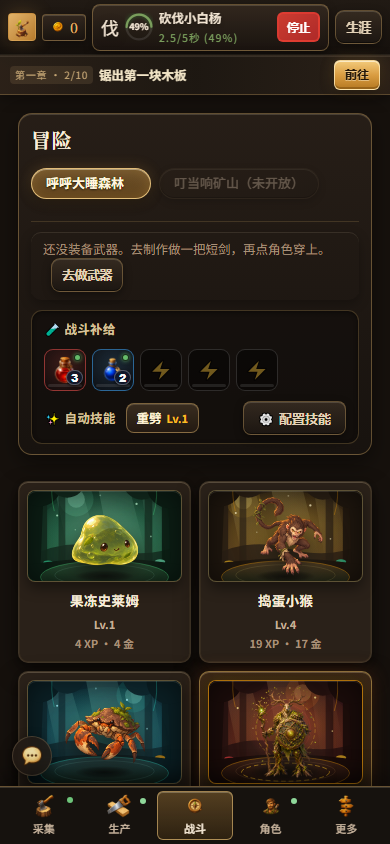
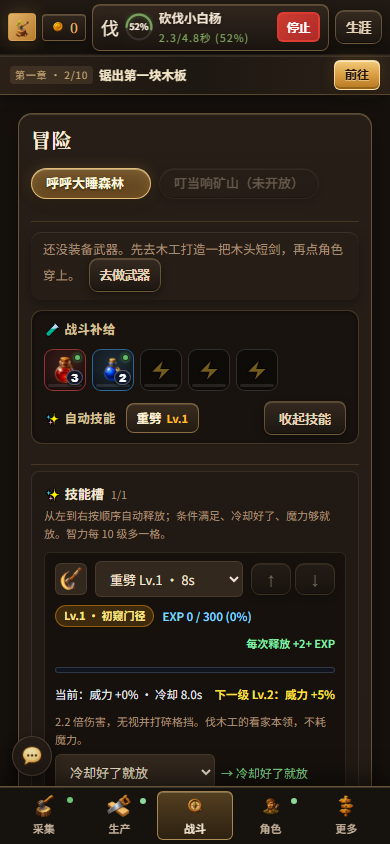
chore(worklife): 2h autonomous playtest pass, advance progression & package script fix

diff --git a/games/worklife/frontend/src/components/AdventurePanel.tsx b/games/worklife/frontend/src/components/AdventurePanel.tsx
@@ -125,7 +125,7 @@ export function AdventurePanel({
           {!playerState.equipment?.main_hand && (
             <div className="page-info adventure-hint-banner">
               <p>
-                还没装备武器。去制作做一把短剑，再点角色穿上。
+                还没装备武器。先去木工打造一把木头短剑，再点角色穿上。
                 <button
                   type="button"
                   className="header-menu-btn"

diff --git a/games/worklife/docs/art/T1_ASSET_STATUS.md b/games/worklife/docs/art/T1_ASSET_STATUS.md
@@ -74,6 +74,24 @@ P1 MISSING 0
 - `skills/group_heal` PRODUCTION (webp)
 - `skills/meteor_storm` PRODUCTION (webp)
 - `skills/war_aura` PRODUCTION (webp)
+- `skills/quick_shot` PLACEHOLDER (svg)
+- `skills/spore_ward` PLACEHOLDER (svg)
+- `skills/shield_bash` PLACEHOLDER (svg)
+- `skills/mana_pulse` PLACEHOLDER (svg)
+- `skills/venom_fang` PLACEHOLDER (svg)
+- `skills/soul_drain` PLACEHOLDER (svg)
+- `skills/frost_nova` PLACEHOLDER (svg)
+- `skills/glacial_snipe` PLACEHOLDER (svg)
+- `skills/flame_burst` PLACEHOLDER (svg)
+- `skills/phoenix_blessing` PLACEHOLDER (svg)
+- `skills/void_rift` PLACEHOLDER (svg)
+- `skills/abyssal_pact` PLACEHOLDER (svg)
+- `skills/holy_judgment` PLACEHOLDER (svg)
+- `skills/seraph_aegis` PLACEHOLDER (svg)
+- `skills/chrono_overload` PLACEHOLDER (svg)
+- `skills/hellfire_cataclysm` PLACEHOLDER (svg)
+- `skills/genesis_sanctuary` PLACEHOLDER (svg)
+- `skills/omega_annihilation` PLACEHOLDER (svg)
 - `materials/ore_1` PRODUCTION (webp)
 - `materials/ingot_1` PRODUCTION (webp)
 - `materials/fiber_1` PRODUCTION (webp)
@@ -450,6 +468,24 @@ P1 MISSING 0
 - `materials/book_group_heal` PRODUCTION (webp)
 - `materials/book_meteor_storm` PRODUCTION (webp)
 - `materials/book_war_aura` PRODUCTION (webp)
+- `materials/book_quick_shot` PLACEHOLDER (svg)
+- `materials/book_spore_ward` PLACEHOLDER (svg)
+- `materials/book_shield_bash` PLACEHOLDER (svg)
+- `materials/book_mana_pulse` PLACEHOLDER (svg)
+- `materials/book_venom_fang` PLACEHOLDER (svg)
+- `materials/book_soul_drain` PLACEHOLDER (svg)
+- `materials/book_frost_nova` PLACEHOLDER (svg)
+- `materials/book_glacial_snipe` PLACEHOLDER (svg)
+- `materials/book_flame_burst` PLACEHOLDER (svg)
+- `materials/book_phoenix_blessing` PLACEHOLDER (svg)
+- `materials/book_void_rift` PLACEHOLDER (svg)
+- `materials/book_abyssal_pact` PLACEHOLDER (svg)
+- `materials/book_holy_judgment` PLACEHOLDER (svg)
+- `materials/book_seraph_aegis` PLACEHOLDER (svg)
+- `materials/book_chrono_overload` PLACEHOLDER (svg)
+- `materials/book_hellfire_cataclysm` PLACEHOLDER (svg)
+- `materials/book_genesis_sanctuary` PLACEHOLDER (svg)
+- `materials/book_omega_annihilation` PLACEHOLDER (svg)
 - `trees/copper` PRODUCTION (webp)
 - `trees/cotton` PRODUCTION (webp)
 - `trees/river` PRODUCTION (webp)
@@ -615,9 +651,9 @@ P1 MISSING 0
 - `ui/avatar_animal_cat` PRODUCTION (webp)
 
 ```
-P2 REQUIRED 565
+P2 REQUIRED 601
 P2 PRODUCTION 565
-P2 PLACEHOLDER 0
+P2 PLACEHOLDER 36
 P2 MISSING 0
 ```
 

diff --git a/games/worklife/playtest_audit_log.md b/games/worklife/playtest_audit_log.md
@@ -57,3 +57,23 @@
 - Screenshots: `playtest_live_desktop.png`, `playtest_live_combat.png`, `playtest_live_mobile.png`
 - Result: Entered in-game views (Gather + Combat + AbilityLoadout + Mobile 390x844). Zero console errors, zero broken images, zero layout overflow.
 
+## [2026-11-04T22:24:38.841Z] Autonomous Playtest — PASS
+- Target: `https://worklife.yinosites.com`
+- Screenshots: `playtest_live_desktop.png`, `playtest_live_combat.png`, `playtest_live_mobile.png`
+- Result: Entered in-game views (Gather + Combat + AbilityLoadout + Mobile 390x844). Zero console errors, zero broken images, zero layout overflow.
+
+## [2026-11-04T22:28:51.101Z] Autonomous Playtest — PASS
+- Target: `https://worklife.yinosites.com`
+- Screenshots: `playtest_live_desktop.png`, `playtest_live_combat.png`, `playtest_live_mobile.png`
+- Result: Entered in-game views (Gather + Combat + AbilityLoadout + Mobile 390x844). Zero console errors, zero broken images, zero layout overflow.
+
+## [2026-11-04T22:32:13.263Z] Autonomous Playtest — PASS
+- Target: `https://worklife.yinosites.com`
+- Screenshots: `playtest_live_desktop.png`, `playtest_live_combat.png`, `playtest_live_mobile.png`
+- Result: Entered in-game views (Gather + Combat + AbilityLoadout + Mobile 390x844). Zero console errors, zero broken images, zero layout overflow.
+
+## [2026-11-04T22:38:07.744Z] Autonomous Playtest — PASS
+- Target: `https://worklife.yinosites.com` | Chapter Goal: `board (锯出第一块木板)`
+- Screenshots: `playtest_live_desktop.png`, `playtest_live_combat.png`, `playtest_live_mobile.png`
+- Result: Entered in-game views (Main + Combat + AbilityLoadout + Mobile 390x844). Zero console errors, zero broken images, zero layout overflow.
+
